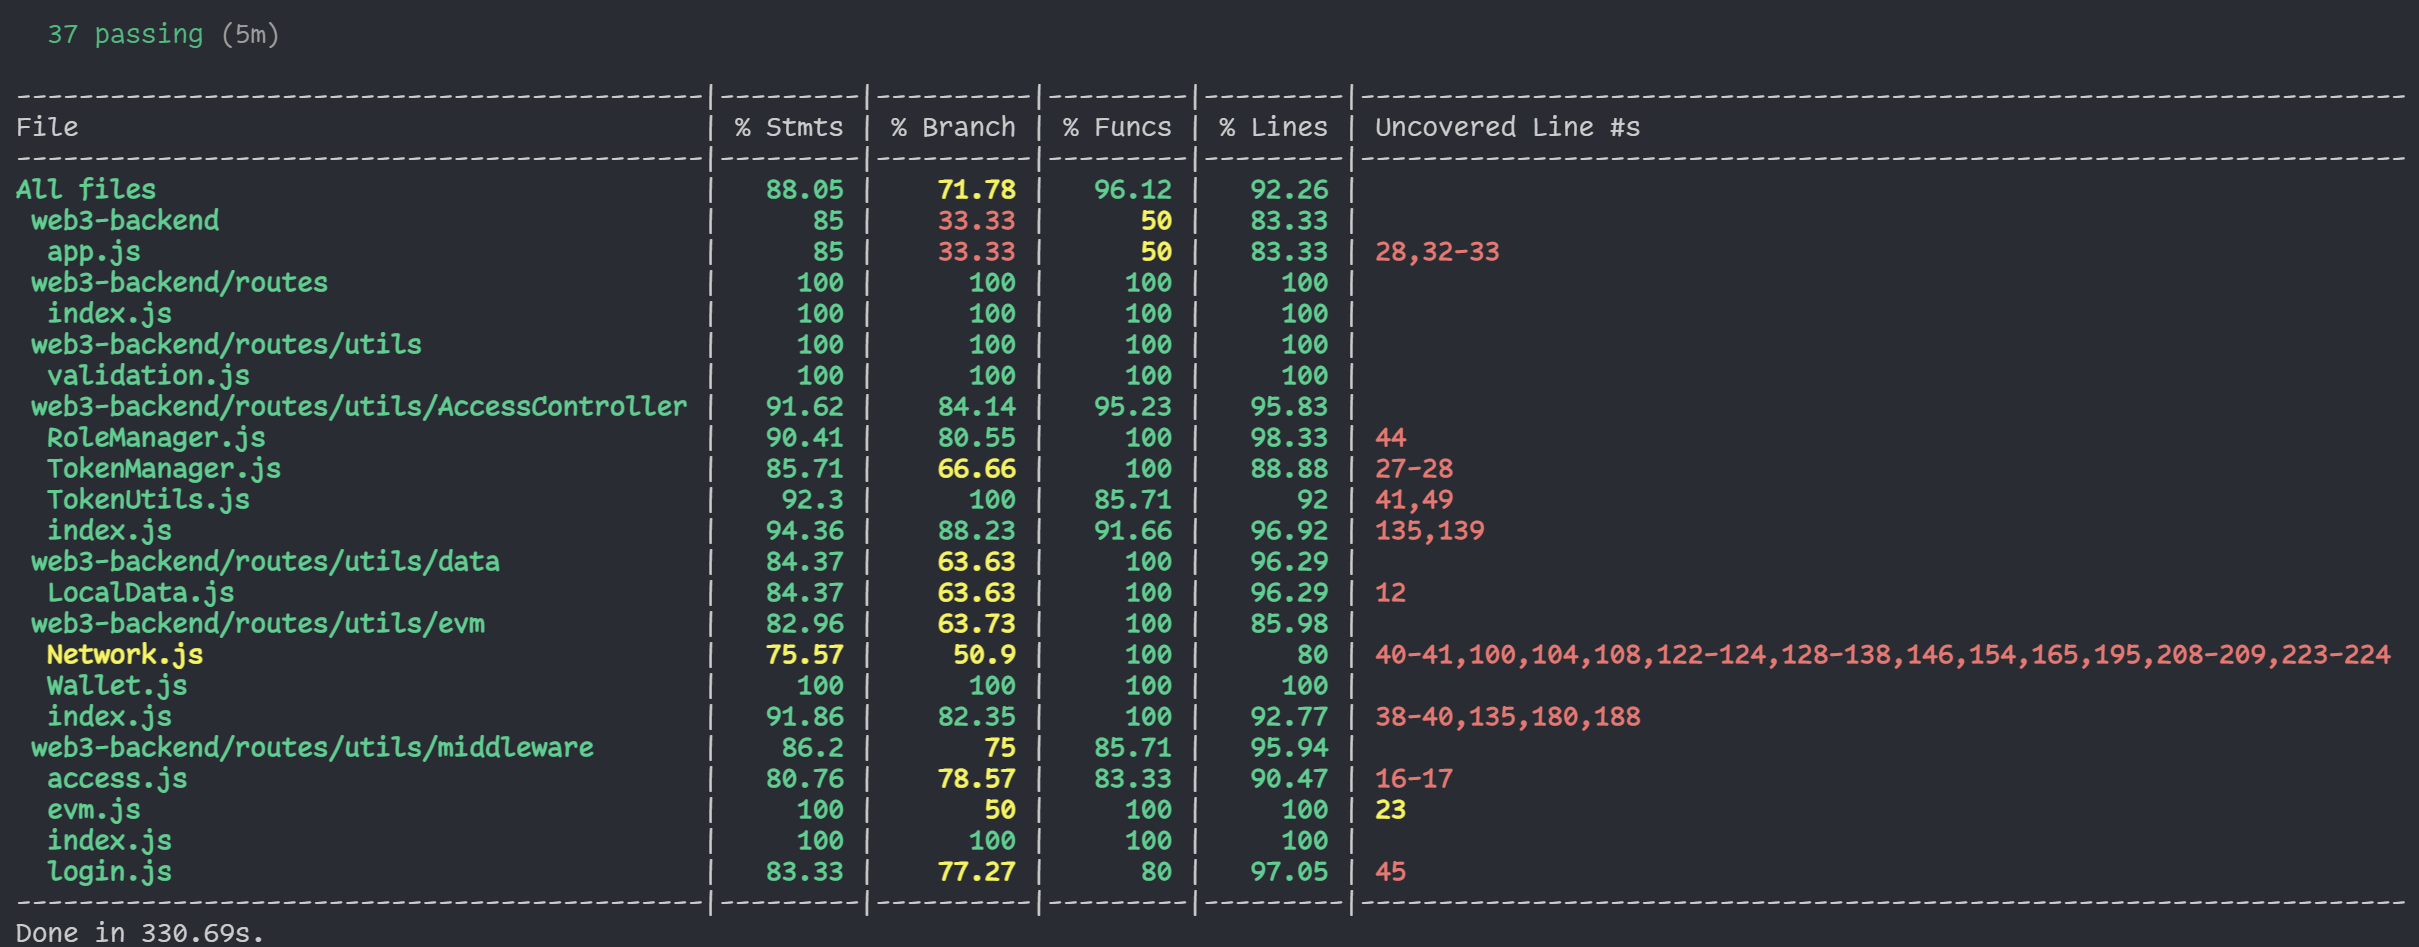
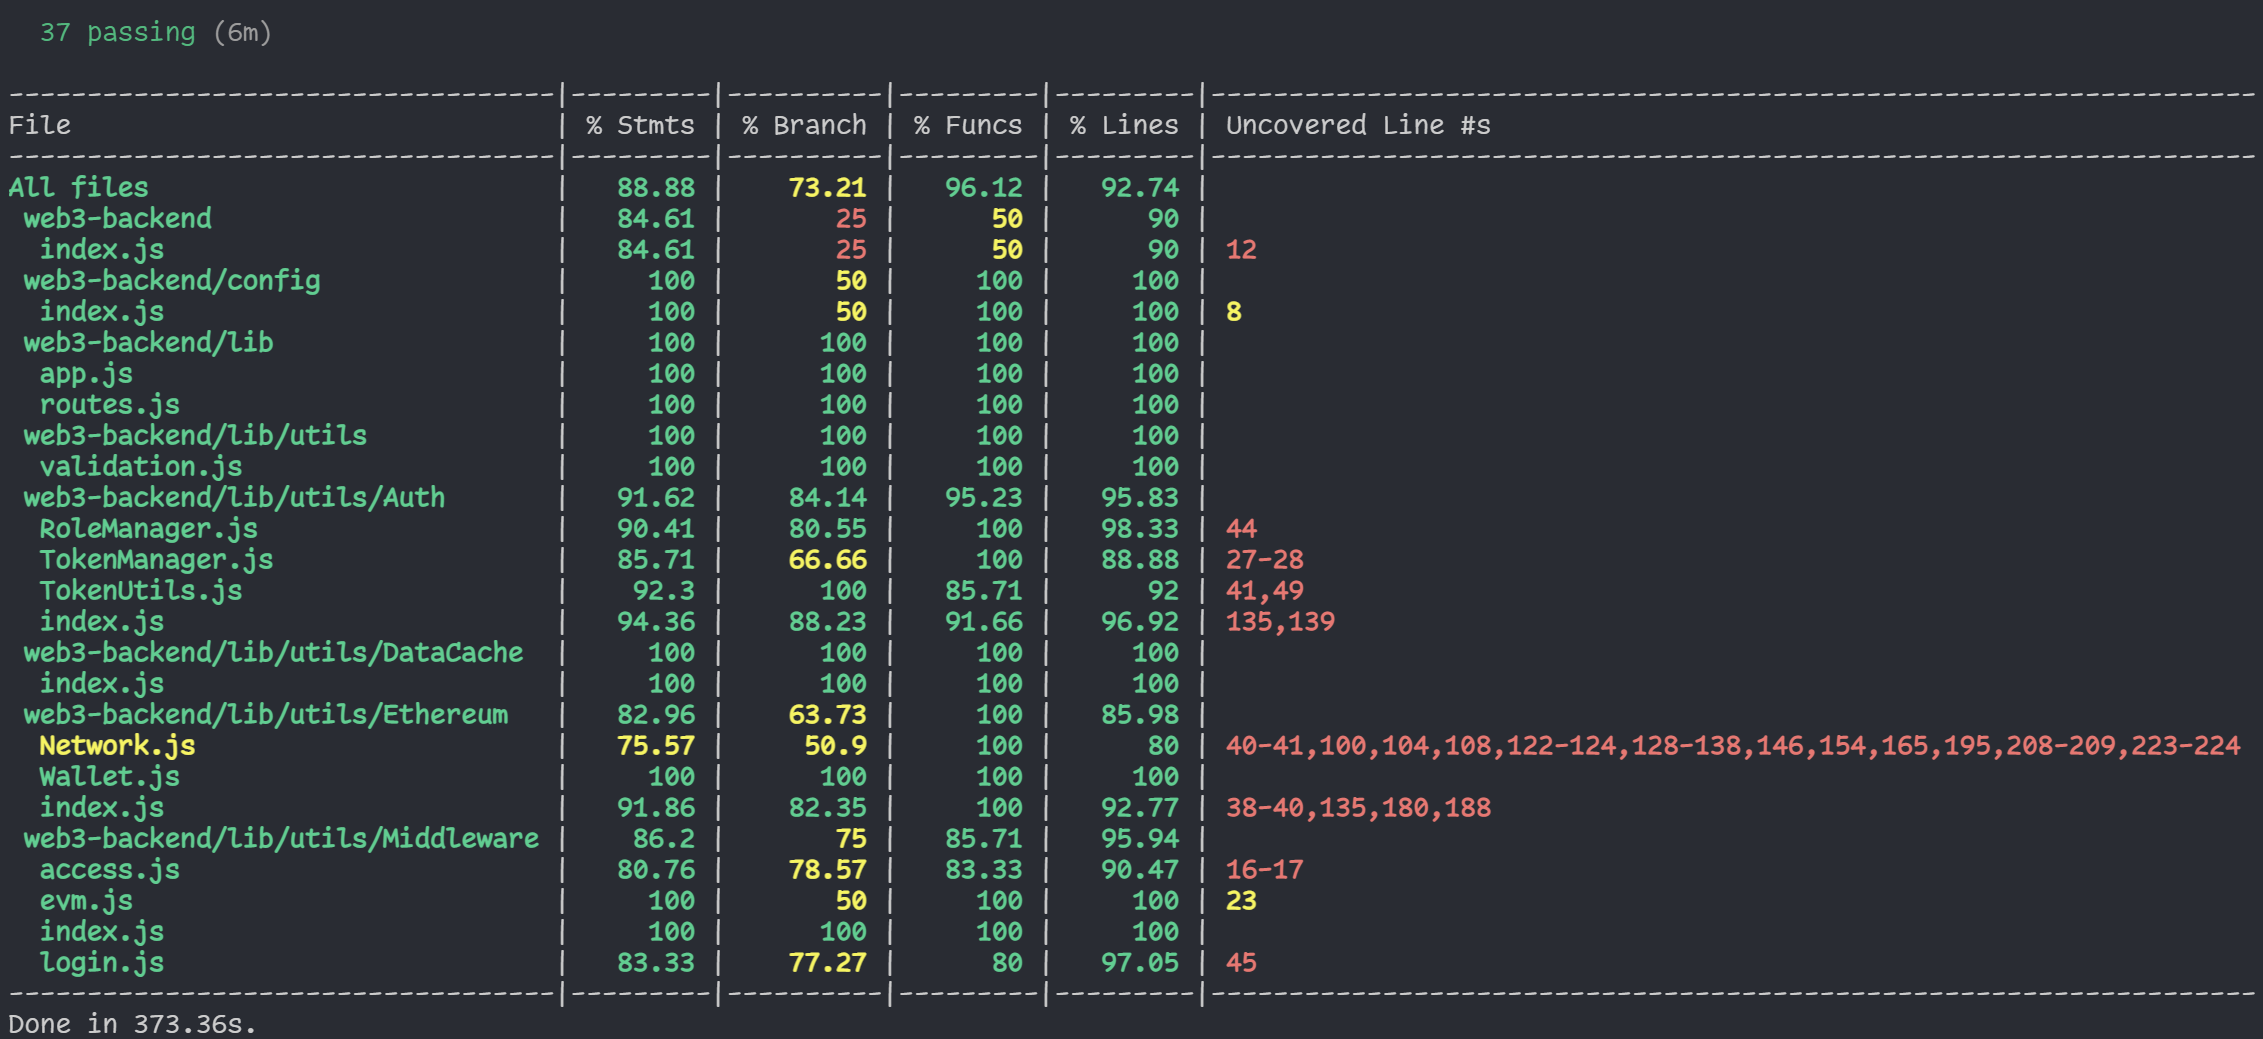
renaming complete

diff --git a/testing/handlers/cleanup.js b/testing/handlers/cleanup.js
@@ -2,8 +2,7 @@ const { existsSync, mkdirSync, copyFileSync, rmSync } = require('fs');
 
 const pathTo = {
   dust: './testing/dust',
-  evm: './lib/utils/evm',
-  Auth: './lib/utils/Auth',
+  utils: './lib/utils',
 };
 
 if (!existsSync(pathTo.dust))
@@ -12,7 +11,7 @@ if (!existsSync(pathTo.dust))
 module.exports = (address, funded, active) => {
   if (funded)
     copyFileSync(
-      `${pathTo.evm}/WalletConfig.json`,
+      `${pathTo.utils}/Ethereum/WalletConfig.json`,
       active
         ? `${pathTo.dust}/active/${address}.json`
         : `${pathTo.dust}/${address}.json`
@@ -21,15 +20,15 @@ module.exports = (address, funded, active) => {
   [
     'Auth/EncryptionTokens',
     'Auth/SessionData',
-    'evm/WalletConfig',
-    'evm/ChainConfig',
+    'Ethereum/WalletConfig',
+    'Ethereum/ChainConfig',
   ].forEach((file) => {
-    const pathTo = `./lib/utils/${file}.json`;
-    if (existsSync(pathTo)) rmSync(pathTo);
+    const currentPath = `${pathTo.utils}/${file}.json`;
+    if (existsSync(currentPath)) rmSync(currentPath);
   });
 
   copyFileSync(
-    `${pathTo.evm}/ChainConfigBackup.json`,
-    `${pathTo.evm}/ChainConfig.json`
+    `${pathTo.utils}/Ethereum/ChainConfigBackup.json`,
+    `${pathTo.utils}/Ethereum/ChainConfig.json`
   );
 };

diff --git a/index.test.js b/index.test.js
@@ -888,7 +888,7 @@ describe('app', () => {
     sft: { id1: false, id2: false },
   };
 
-  xcontext('/balance', () => {
+  context('/balance', () => {
     let rootSesh,
       adminSesh,
       managerSesh,
@@ -908,7 +908,7 @@ describe('app', () => {
     const contracts = {
       tkn: new ethers.Contract(
         '0x9c3C9283D3e44854697Cd22D3Faa240Cfb032889',
-        require(`./lib/utils/evm/interfaces/ERC20.json`).abi,
+        require(`./lib/utils/Ethereum/interfaces/ERC20.json`).abi,
         deployer
       ),
       nft: new ethers.Contract(
@@ -1024,7 +1024,7 @@ describe('app', () => {
     ) {
       const contract = new ethers.Contract(
         address,
-        require(`./lib/utils/evm/interfaces/${interface}.json`).abi,
+        require(`./lib/utils/Ethereum/interfaces/${interface}.json`).abi,
         deployer
       );
 

diff --git a/lib/routes.js b/lib/routes.js
@@ -1,6 +1,6 @@
-const Ethereum = require('./utils/evm');
+const Ethereum = require('./utils/Ethereum');
 const Auth = require('./utils/Auth');
-const Middleware = require('./utils/middleware');
+const Middleware = require('./utils/Middleware');
 
 module.exports = (app) => {
   const evm = new Ethereum();

diff --git a/testing/handlers/mocks.js b/testing/handlers/mocks.js
@@ -1,6 +1,6 @@
 const { existsSync, writeFileSync } = require('fs');
 const ethers = require('ethers');
-const Ethereum = require('../../lib/utils/evm');
+const Ethereum = require('../../lib/utils/Ethereum');
 const Auth = require('../../lib/utils/Auth');
 
 const evm = new Ethereum();
